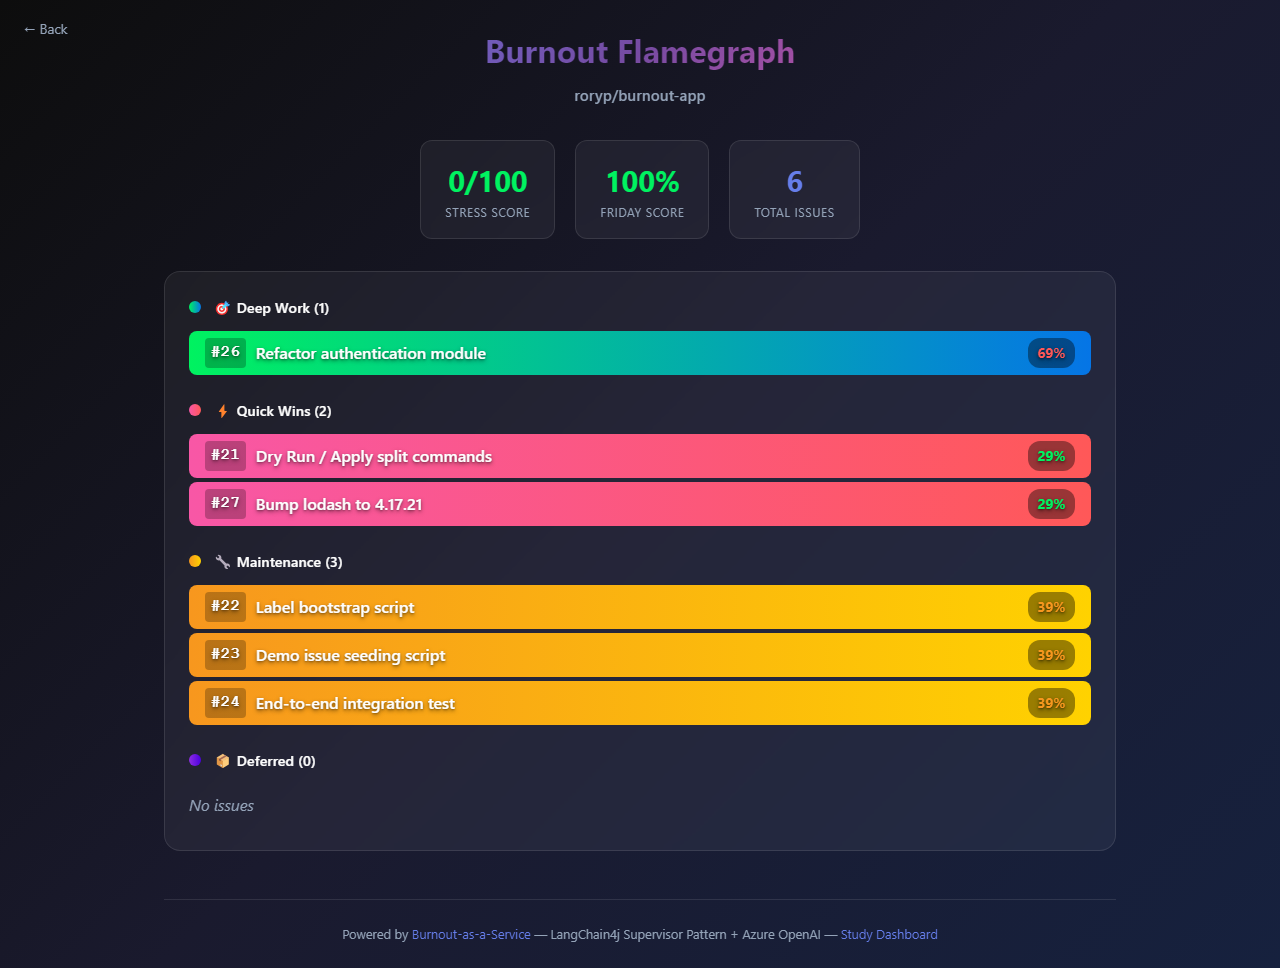
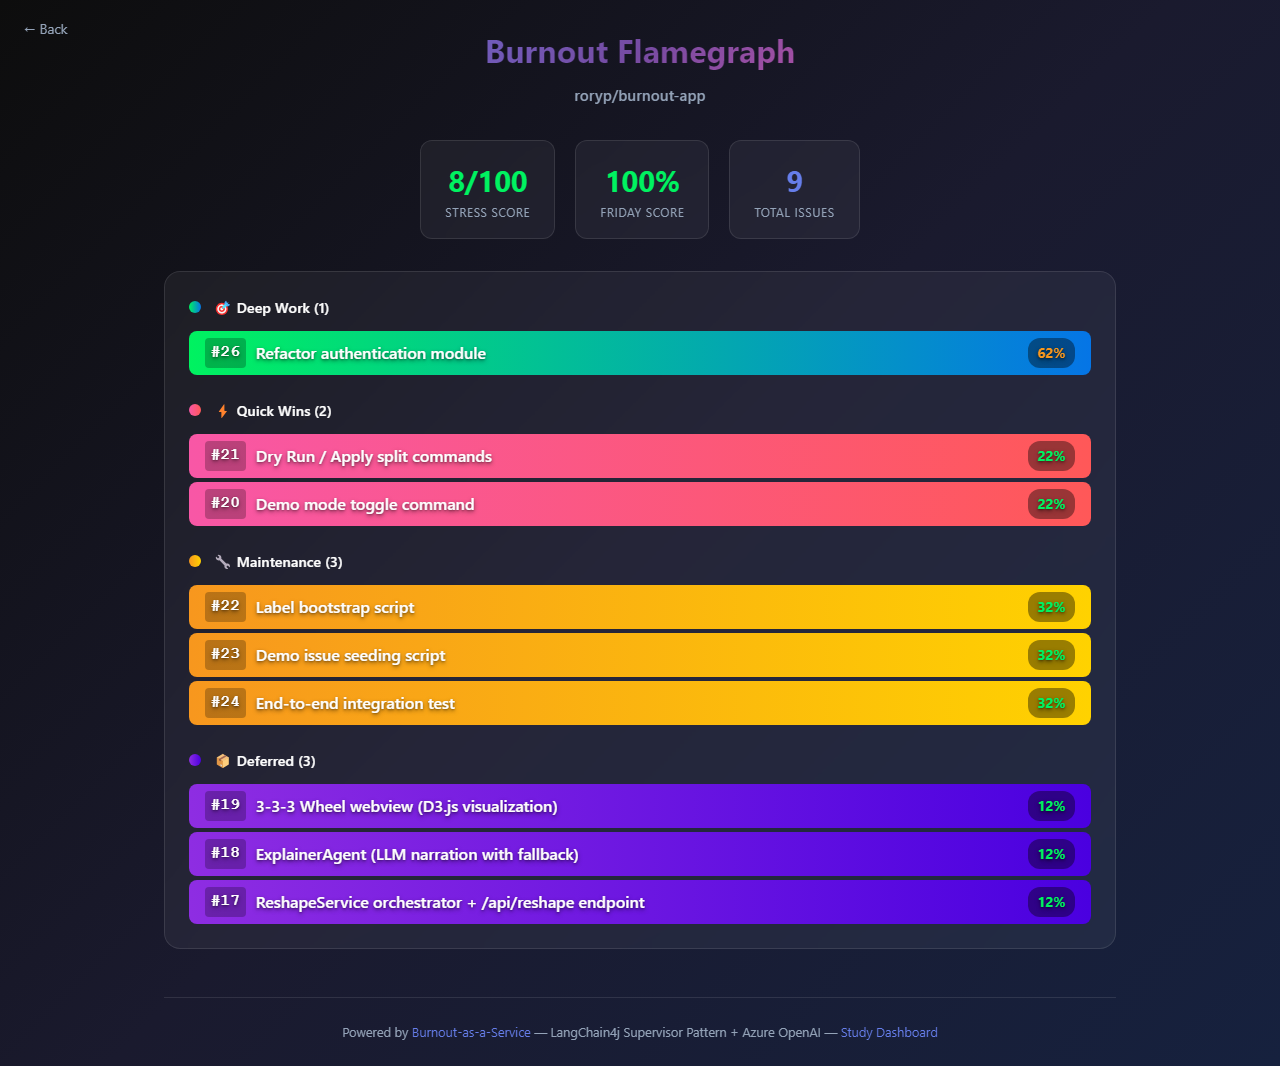
feat: update README with improved stress metrics and demo visuals

diff --git a/README.md b/README.md
@@ -23,23 +23,25 @@ Four pages, no auth required:
 
 | Before (Chaotic) | After (Reshaped) |
 |:---:|:---:|
-| ![58/100 stress](docs/images/demo/flamegraph-before.png) | ![0/100 stress, 3-3-3](docs/images/demo/flamegraph-after.png) |
-| 58/100 stress (HIGH), Workload + Chaos + Context Switching firing | 0/100 stress (LOW), 100% Friday Score, ≤3-3-3 compliant |
+| ![58/100 stress](docs/images/demo/flamegraph-before.png) | ![8/100 stress, 3-3-3](docs/images/demo/flamegraph-after.png) |
+| 58/100 stress (HIGH), Workload + Chaos + Context Switching firing | 8/100 stress (LOW), 100% Friday Score, 3-3-3 compliant |
 
 ### Stress Breakdown: What Changed
 
-| Before (58/HIGH) | After (0/LOW) |
+| Before (58/HIGH) | After (8/LOW) |
 |:---:|:---:|
-| ![Stress 58 — workload + chaos red](docs/images/demo/stress-before.png) | ![Stress 0 — bars empty](docs/images/demo/stress-after.png) |
+| ![Stress 58 — workload + chaos red](docs/images/demo/stress-before.png) | ![Stress 8 — only workload remaining](docs/images/demo/stress-after.png) |
 
 | Metric | Before | After | What changed |
 |--------|--------|-------|-------------|
-| **Workload** | 12 | 0 | 10 issues piled on roryp → reshape deferred / classified them into ≤3-3-3 |
+| **Workload** | 12 | 8 | 10 issues piled on roryp → reshape deferred most into 3-3-3, leaving 1 deep-work item |
 | **Chaos** | 20 | 0 | 6 unassigned URGENTs + empty bodies + after-hours timestamps → deterministic pre-pass triaged them and defused chaos inputs |
 | **Context Switching** | 15 | 0 | 10 issues touched in the last hour → updatedAt rewritten to a stable mid-morning slot |
 | **Clarity** | 10 | 0 | Every issue had an empty body → SetBody actions added scope-pending placeholders |
 | **After Hours** | 0 | 0 | Chaos issues had 3AM / 4AM / 10PM timestamps but were unassigned, so they didn't count against roryp |
 | **Sustained** | 0 | 0 | No prior high-stress days yet (this is a fresh seed) |
+
+> **Note:** The reshape uses an LLM supervisor, so results vary slightly run-to-run. Typical: **58 → 8 (LOW)** with ~70-80 actions applied. Occasionally lands on 0 when the supervisor classifies the final remaining issue too.
 
 **How to get there:**
 
@@ -53,10 +55,10 @@ bash scripts/seed-demo.sh https://your-app.azurecontainerapps.io
 curl -X POST https://your-app.azurecontainerapps.io/demo/api/reshape \
   -H 'Content-Type: application/json' \
   -d '{"repo":"roryp/burnout-app","userId":"roryp"}'
-# → beforeScore 58, afterScore 0, actionsApplied ~80, llmUsed true
+# → beforeScore 58, afterScore 8 (typical, sometimes 0), actionsApplied ~75, llmUsed true
 
 # 3. View the result:
-#    /flamegraph.html?repo=roryp/burnout-app&userId=roryp  → 0/100 stress, ≤3-3-3 compliant
+#    /flamegraph.html?repo=roryp/burnout-app&userId=roryp  → 8/100 stress, 3-3-3 compliant
 #    /study.html → click Load Data → see roryp's drop in the trend chart
 ```
 
